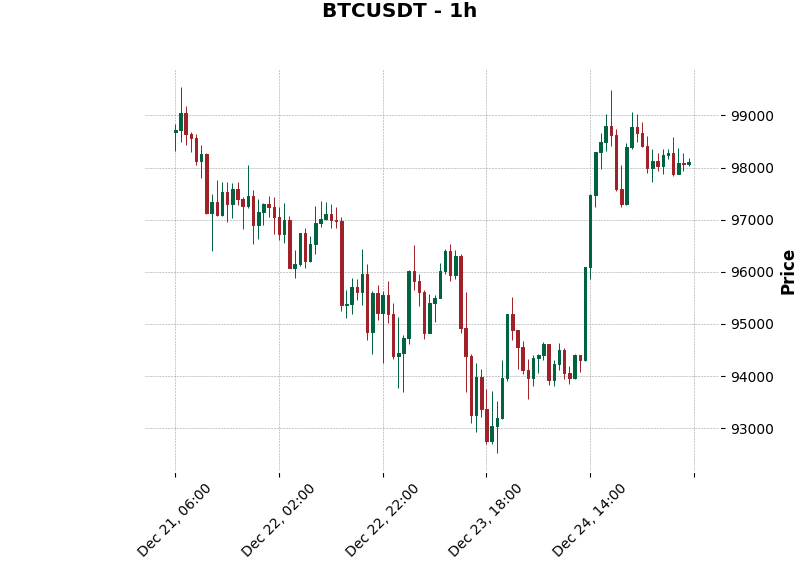
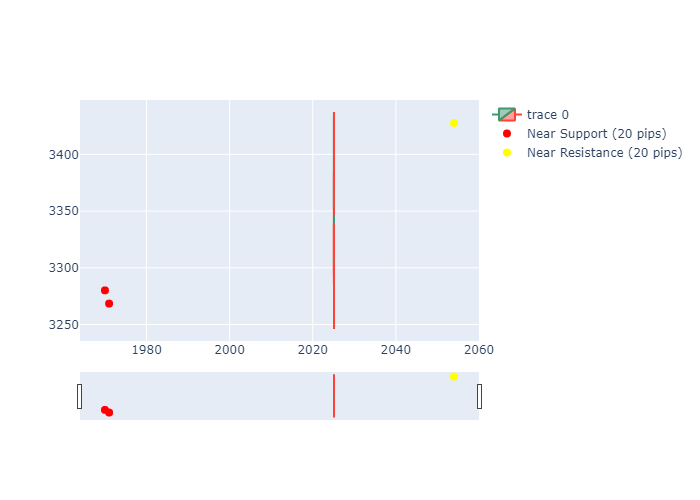
check reversal pattern

diff --git a/crypto_chart_app/datanalyze_mysql.py b/crypto_chart_app/datanalyze_mysql.py
@@ -87,10 +87,11 @@ def detect_engulfing_pattern(df):
         # prev_trend negative means downtrend, positive means uptrend
 
         doji_type = doji_check(prev_candle)
-        if doji_type == "bullish_doji":
+        reversal = reversal_pattern(prev_candle)
+        if doji_type == "bullish_doji" or reversal == "bullish_hammer" or reversal == "bullish_inverted_hammer":
             if prev_trend < 0 and current_candle['close'] > current_candle['open'] and current_candle['close'] > prev_candle['high'] and current_candle['open'] < prev_candle['low']:
                 df.at[i, 'engulfing'] = 'bullish'
-        elif doji_type == "bearish_doji":
+        elif doji_type == "bearish_doji" or reversal == "bearish_shooting_star" or reversal == "bearish_hanging_man":
             if prev_trend > 0 and current_candle['close'] < current_candle['open'] and current_candle['close'] < prev_candle['low'] and current_candle['open'] > prev_candle['high']:
                 df.at[i, 'engulfing'] = 'bearish'
 
@@ -138,7 +139,7 @@ def reversal_pattern(candle):
                 return "bearish_hanging_man"
 
     return "no"
-
+git 
 def apply_technicals(df):
     if len(df) < 14:  # Minimum required length for calculations
         return df    
